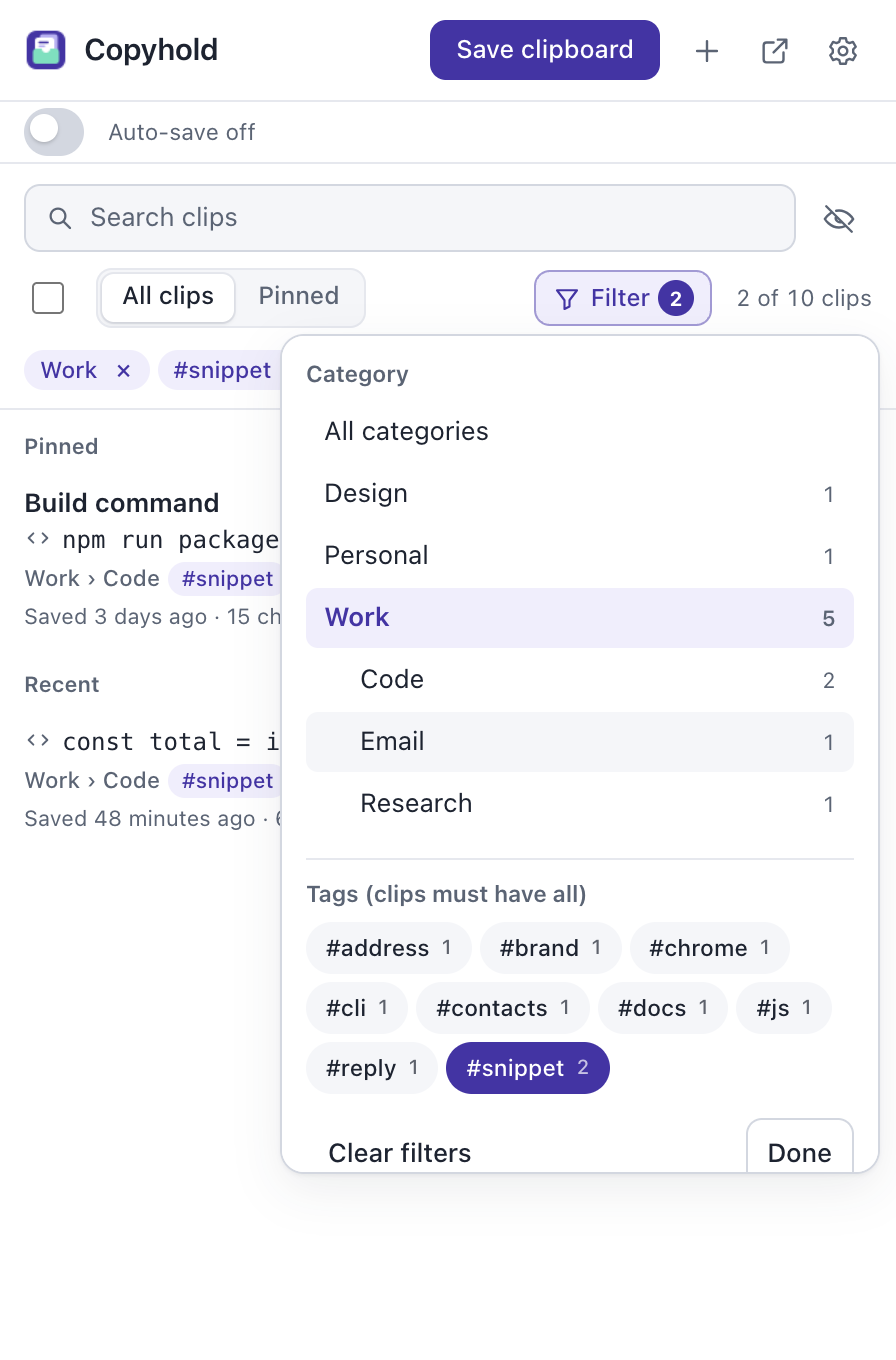
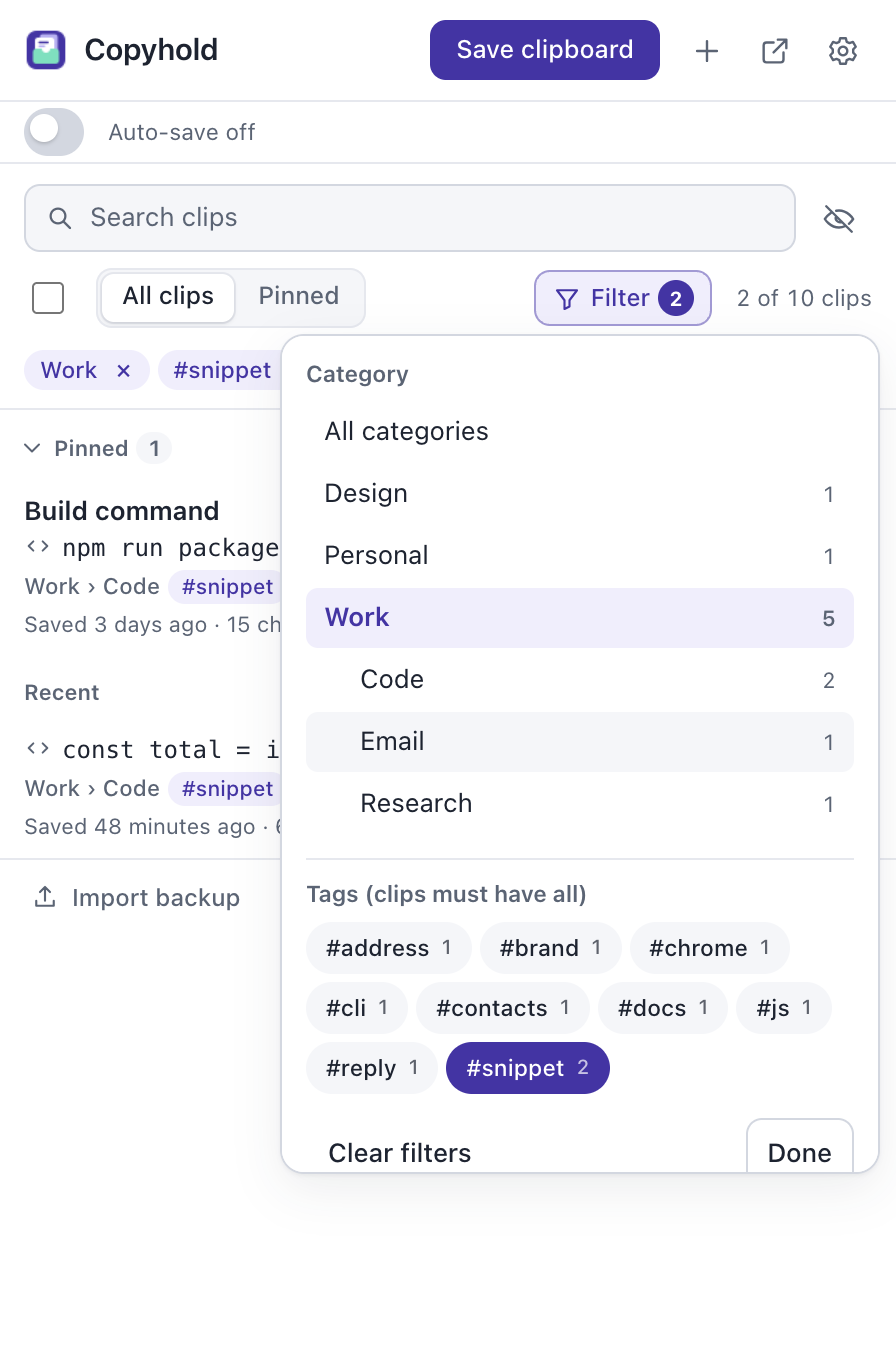
Top-align row buttons, move import and export to the list footer, and fold pinned clips
- Row action buttons align with the first line of each clip instead of
  its vertical center; compact rows stay centered.
- Import backup and Export backup move from Settings to a bar under the
  clip list.
- The Pinned heading folds the group away and shows its count. Folded
  clips leave keyboard navigation and Alt+number shortcuts; the Pinned
  filter still lists them. The choice is saved as a setting.
- Tag chips stay visible on the highlighted row.
- Version 1.2.1, with tests, changelog, README, and screenshots.

diff --git a/src/popup/modules/list.js b/src/popup/modules/list.js
@@ -2,6 +2,7 @@ import { sortEntries } from "../../lib/entries.js";
 import { clipPreview, clipType, displayLength, displayUrl, relativeTime, shortAge } from "../../lib/format.js";
 import { emptyFilter, isFiltering, matchesFilter, matchesTagTerms, matchesText, parseQuery } from "../../lib/organize.js";
 import { sensitiveLabel } from "../../lib/sensitive.js";
+import { updateSettings } from "../../lib/settings.js";
 import * as store from "../../lib/store.js";
 import { copyEntry, deleteEntry, togglePin } from "./actions.js";
 import { byId, icon, iconPaths, run, status, textLine, timeElement } from "./dom.js";
@@ -346,10 +347,14 @@ export function renderList(resetActive = false) {
   const matches = clips.filter((clip) => (!pinnedOnly || clip.pinned) &&
     matchesText(clip, text) && matchesTagTerms(clip, tags) && (!filtering || matchesFilter(clip, state.filter)));
   const hadFocus = clipList.contains(document.activeElement);
+  const pinnedMatches = matches.filter((clip) => clip.pinned).length;
+  // The Pinned filter shows only pinned clips, so folding them away there would empty the list.
+  const collapsed = state.pinnedCollapsed && !pinnedOnly;
+  const listed = collapsed ? matches.filter((clip) => !clip.pinned) : matches;
 
   if (resetActive) renderLimit = renderStep;
-  const shown = matches.slice(0, renderLimit);
-  hiddenMatches = matches.length - shown.length;
+  const shown = listed.slice(0, renderLimit);
+  hiddenMatches = listed.length - shown.length;
   const visibleIds = new Set(shown.map(({ id }) => id));
   state.shownClips = shown;
   for (const id of selectedIds) if (!visibleIds.has(id)) selectedIds.delete(id);
@@ -377,15 +382,19 @@ export function renderList(resetActive = false) {
   });
   for (const [name, group] of Object.entries(groups)) {
     group.replaceChildren(group.querySelector(".group-heading"), ...rows[name]);
-    group.hidden = rows[name].length === 0;
+    group.hidden = name === "pinned" ? pinnedMatches === 0 : rows[name].length === 0;
   }
   byId("pinned-heading").hidden = pinnedOnly;
-  byId("recent-heading").hidden = rows.pinned.length === 0;
+  byId("recent-heading").hidden = pinnedMatches === 0 || pinnedOnly;
+  const toggle = byId("pinned-toggle");
+  toggle.setAttribute("aria-expanded", String(!collapsed));
+  toggle.title = collapsed ? t("expandPinned") : t("collapsePinned");
+  byId("pinned-count").textContent = pinnedMatches.toLocaleString();
   showMore.hidden = hiddenMatches === 0;
   showMore.textContent = t("showMore", Math.min(renderStep, hiddenMatches).toLocaleString(), hiddenMatches.toLocaleString());
   if (hadFocus && !clipList.contains(document.activeElement)) search.focus({ preventScroll: true });
 
-  if (resetActive || !visibleIds.has(state.activeId)) state.activeId = matches[0]?.id;
+  if (resetActive || !visibleIds.has(state.activeId)) state.activeId = listed[0]?.id;
   updateItemStates();
   if (resetActive) clipList.scrollTop = 0;
 
@@ -499,6 +508,17 @@ document.addEventListener("keyup", (event) => {
   if (event.key === "Alt") clipList.classList.remove("show-keys");
 });
 addEventListener("blur", () => clipList.classList.remove("show-keys"));
+
+export function setPinnedCollapsed(collapsed) {
+  state.pinnedCollapsed = collapsed;
+  renderList();
+}
+
+byId("pinned-toggle").addEventListener("mousedown", (event) => event.preventDefault());
+byId("pinned-toggle").addEventListener("click", () => {
+  setPinnedCollapsed(!state.pinnedCollapsed);
+  run(() => updateSettings({ pinnedCollapsed: state.pinnedCollapsed }));
+});
 
 for (const filter of [allClips, pinnedClips]) {
   filter.addEventListener("change", () => renderList(true));

diff --git a/src/popup/popup.css b/src/popup/popup.css
@@ -299,7 +299,8 @@ button:disabled { cursor: default; opacity: .55; }
   display: grid;
   grid-template-columns: auto auto minmax(0, 1fr) auto auto auto auto;
   grid-template-areas: "check age details tags size key actions";
-  align-items: center;
+  /* Buttons line up with the first line of text, so they stay put when a clip wraps or has labels. */
+  align-items: start;
   padding: 8px 8px 8px 12px;
   scroll-margin-block: 32px 4px;
   cursor: pointer;
@@ -366,7 +367,7 @@ button:disabled { cursor: default; opacity: .55; }
 #delete-selected:not(:disabled) { color: var(--danger); border-color: currentColor; }
 #finish-selection { color: var(--accent); }
 .clip-details { min-inline-size: 0; display: grid; gap: 2px; }
-.clip-actions { display: flex; align-items: center; gap: 2px; }
+.clip-actions { display: flex; align-items: center; gap: 2px; margin-block: -6px; }
 .clip-actions button { min-block-size: 30px; min-inline-size: 30px; padding: 3px; border-color: transparent; background: transparent; color: var(--muted); border-radius: 7px; }
 .clip-actions button:hover { background: color-mix(in srgb, var(--text) 8%, transparent); color: var(--text); }
 :is(.clip:hover, .panel:has(#search:focus) .clip.is-active) .copy { color: var(--accent); }
@@ -421,7 +422,8 @@ button:disabled { cursor: default; opacity: .55; }
 .hint { font-size: .9rem; }
 /* One line with an ellipsis, so an icon or the row actions never push the text out of view. */
 :root:not(.full-tab) .clip .preview { display: block; white-space: nowrap; overflow: hidden; text-overflow: ellipsis; }
-.compact .clip { padding-block: 5px; }
+.compact .clip { padding-block: 5px; align-items: center; }
+.compact .clip-actions { margin-block: 0; }
 .compact .clip-details { display: flex; align-items: baseline; gap: 8px; }
 .compact .clip-title { flex: none; max-inline-size: 45%; }
 .compact :is(.clip-title, .preview) { display: block; white-space: nowrap; overflow: hidden; text-overflow: ellipsis; }
@@ -761,3 +763,33 @@ textarea { resize: vertical; }
 .setting-label { font-weight: 600; }
 :root:not(.full-tab) body:has(#manage-dialog[open]) { min-block-size: 520px; }
 :root:not(.full-tab) body:has(#filter-panel:popover-open) { min-block-size: 600px; }
+
+.group-toggle {
+  display: inline-flex;
+  gap: 4px;
+  min-block-size: 22px;
+  margin: -2px 0 0 -6px;
+  padding: 0 6px 0 2px;
+  border-radius: 6px;
+  color: inherit;
+  font: inherit;
+}
+.group-toggle:hover { background: var(--subtle); color: var(--text); }
+.group-toggle .chevron { inline-size: 14px; block-size: 14px; transition: transform .15s; }
+.group-toggle[aria-expanded="false"] .chevron { transform: rotate(-90deg); }
+@media (prefers-reduced-motion: reduce) { .group-toggle .chevron { transition: none; } }
+.group-count { min-inline-size: 18px; padding: 0 5px; border-radius: 999px; background: var(--subtle); font-variant-numeric: tabular-nums; }
+.list-footer {
+  display: flex;
+  flex-wrap: wrap;
+  align-items: center;
+  gap: 2px;
+  padding: 4px 6px;
+  border-block-start: 1px solid var(--line);
+}
+.list-footer button { gap: 6px; min-block-size: 30px; padding: 3px 8px; color: var(--muted); font-size: .86rem; }
+.list-footer button:hover:not(:disabled) { color: var(--text); }
+.list-footer .action-icon { inline-size: 15px; block-size: 15px; }
+.list-footer-hint { margin-inline-start: auto; padding-inline-end: 6px; color: var(--muted); font-size: .78rem; }
+:root:not(.full-tab) .list-footer-hint { display: none; }
+:is(.panel:has(#search:focus), body:has(#clip-menu:popover-open)) .clip.is-active .clip-labels .tag { background: var(--surface); }

diff --git a/src/popup/popup.html b/src/popup/popup.html
@@ -124,12 +124,6 @@
                 <button id="lock-remove" class="secondary" type="button" hidden data-i18n="turnOffLock">Turn off lock</button>
               </div>
             </fieldset>
-            <div class="actions">
-              <button id="import" class="secondary" type="button" aria-describedby="import-hint" data-i18n="importBackup">Import backup</button>
-              <button id="export" class="secondary" type="button" data-i18n="exportBackup">Export backup</button>
-              <input id="file" type="file" accept=".json,application/json" hidden>
-            </div>
-            <p id="import-hint" class="hint"></p>
           </div>
         </details>
       </div>
@@ -215,7 +209,13 @@
       <p id="copy-status" class="sr-only" role="status" aria-atomic="true"></p>
       <div id="entries" class="clips" role="listbox" aria-label="Saved clips" data-i18n-aria-label="savedClips">
         <div id="pinned-group" class="clip-group" role="group" aria-labelledby="pinned-heading" hidden>
-          <div id="pinned-heading" class="group-heading" role="presentation" data-i18n="pinned">Pinned</div>
+          <div id="pinned-heading" class="group-heading" role="presentation">
+            <button id="pinned-toggle" class="group-toggle" type="button" aria-expanded="true" aria-controls="pinned-group">
+              <svg class="action-icon chevron" viewBox="0 0 24 24" aria-hidden="true" focusable="false"><path d="m6 9 6 6 6-6"/></svg>
+              <span data-i18n="pinned">Pinned</span>
+              <span id="pinned-count" class="group-count"></span>
+            </button>
+          </div>
         </div>
         <div id="recent-group" class="clip-group" role="group" aria-labelledby="recent-heading" hidden>
           <div id="recent-heading" class="group-heading" role="presentation" data-i18n="recent">Recent</div>
@@ -227,6 +227,18 @@
         <div id="empty-hints"></div>
         <button id="reset-filters" class="secondary" type="button" hidden data-i18n="showAllClips">Show all clips</button>
       </div>
+      <footer class="list-footer">
+        <button id="import" class="quiet" type="button" aria-describedby="import-hint">
+          <svg class="action-icon" viewBox="0 0 24 24" aria-hidden="true" focusable="false"><path d="M12 15V4m0 0L8 8m4-4 4 4M5 15v4h14v-4"/></svg>
+          <span data-i18n="importBackup">Import backup</span>
+        </button>
+        <button id="export" class="quiet" type="button">
+          <svg class="action-icon" viewBox="0 0 24 24" aria-hidden="true" focusable="false"><path d="M12 4v11m0 0-4-4m4 4 4-4M5 15v4h14v-4"/></svg>
+          <span data-i18n="exportBackup">Export backup</span>
+        </button>
+        <input id="file" type="file" accept=".json,application/json" hidden>
+        <span id="import-hint" class="list-footer-hint"></span>
+      </footer>
     </section>
   </main>
   <div id="undo-bar" class="undo-bar" hidden>

diff --git a/e2e/extension.e2e.js b/e2e/extension.e2e.js
@@ -244,6 +244,41 @@ test("deleting a clip can be undone", async () => {
   assert.equal((await storedClips()).length, before);
 });
 
+test("the pinned group collapses, stays collapsed, and leaves keyboard navigation", async () => {
+  await page.evaluate(() => {
+    const row = [...document.querySelectorAll("#recent-group .clip")].find((item) => item.textContent.includes("first clip"));
+    row.querySelector(".pin").click();
+  });
+  await page.waitForFunction(() => document.querySelectorAll("#pinned-group .clip").length === 1);
+  assert.equal(await text("#pinned-count"), "1");
+  await page.click("#pinned-toggle");
+  await page.waitForFunction(() => document.querySelectorAll("#pinned-group .clip").length === 0);
+  assert.equal(await page.$eval("#pinned-toggle", (toggle) => toggle.getAttribute("aria-expanded")), "false");
+  assert.equal(await page.$eval("#pinned-group", (group) => group.hidden), false);
+  // The first shown clip is now the first recent one, for arrows, Enter, and Alt+1.
+  const firstShown = await page.$eval(".clip", (item) => item.closest("#recent-group") !== null);
+  assert.equal(firstShown, true);
+
+  await page.waitForFunction(async () =>
+    (await (await import("/lib/settings.js")).getSettings()).pinnedCollapsed === true);
+  await openPopup();
+  await page.waitForFunction(() => document.querySelector("#pinned-toggle").getAttribute("aria-expanded") === "false");
+  assert.equal(await page.$$eval("#pinned-group .clip", (rows) => rows.length), 0);
+  // The Pinned filter still lists pinned clips.
+  await page.click("#pinned-clips");
+  await page.waitForFunction(() => document.querySelectorAll("#pinned-group .clip").length === 1);
+  await page.click("#all-clips");
+  await page.click("#pinned-toggle");
+  await page.waitForFunction(() => document.querySelectorAll("#pinned-group .clip").length === 1);
+});
+
+test("import and export are in the footer, outside Settings", async () => {
+  assert.equal(await page.$eval("#settings", (settings) => settings.open), false);
+  for (const id of ["#import", "#export"]) {
+    assert.equal(await page.$eval(id, (button) => button.closest(".list-footer") !== null && button.checkVisibility()), true);
+  }
+});
+
 test("automatic saving captures copied text with the popup closed", async () => {
   await page.click("#capture-switch");
   await page.waitForFunction(() => document.querySelector("#capture-switch").getAttribute("aria-checked") === "true");

diff --git a/src/popup/modules/settings-panel.js b/src/popup/modules/settings-panel.js
@@ -4,7 +4,7 @@ import {
 import * as store from "../../lib/store.js";
 import { byId, iconPaths, run, status } from "./dom.js";
 import { confirmAction } from "./editor.js";
-import { clipList, refresh, renderList } from "./list.js";
+import { clipList, refresh, renderList, setPinnedCollapsed } from "./list.js";
 import { state } from "./state.js";
 import { t, tn } from "../../lib/i18n.js";
 
@@ -81,6 +81,7 @@ run(async () => {
   const saved = await getSettings();
   applyDensity(saved.density);
   if (saved.hidePreviews) applyHidePreviews(true);
+  if (saved.pinnedCollapsed) setPinnedCollapsed(true);
   for (const [input, key] of [[retentionDays, "retentionDays"], [historyLimit, "historyLimit"], [sensitiveClips, "sensitiveClips"]]) {
     input.value = String(saved[key]);
     input.disabled = false;
@@ -98,6 +99,7 @@ onSettingsChange((changes) => {
   if ("captureImages" in changes) captureImages.checked = changes.captureImages;
   if ("closeAfterCopy" in changes) closeAfterCopyInput.checked = state.closeAfterCopy = changes.closeAfterCopy;
   if ("density" in changes) applyDensity(changes.density);
+  if ("pinnedCollapsed" in changes && changes.pinnedCollapsed !== state.pinnedCollapsed) setPinnedCollapsed(changes.pinnedCollapsed);
   if ("hidePreviews" in changes && changes.hidePreviews !== state.hidePreviews) applyHidePreviews(changes.hidePreviews);
   if ("historyLimit" in changes) historyLimit.value = String(savedHistoryLimit = changes.historyLimit);
 });

diff --git a/site/index.html b/site/index.html
@@ -39,7 +39,7 @@
             </a>
             <a class="button secondary" href="#install">How to install</a>
           </div>
-          <p class="note">Version 1.2.0 · <a href="https://github.com/nevin/copyhold/releases/latest">What's new</a>: categories and tags, passphrase lock, image clips, and secret detection. Coming soon to the Chrome Web Store; until then, install it from the download in under a minute.</p>
+          <p class="note">Version 1.2.1 · <a href="https://github.com/nevin/copyhold/releases/latest">What's new</a>: categories and tags, passphrase lock, image clips, and secret detection. Coming soon to the Chrome Web Store; until then, install it from the download in under a minute.</p>
         </div>
         <div class="frame">
           <img src="screenshots/popup-list.png" width="896" height="1200" alt="The Copyhold popup listing pinned and recent clips, with a search field and a highlighted link clip.">

diff --git a/src/popup/modules/backup.js b/src/popup/modules/backup.js
@@ -4,14 +4,12 @@ import * as store from "../../lib/store.js";
 import { byId, fullTab, run, status } from "./dom.js";
 import { confirmAction } from "./editor.js";
 import { loaders, refresh } from "./list.js";
-import { settings } from "./settings-panel.js";
 import { t, tn } from "../../lib/i18n.js";
 
 const file = byId("file");
 
-byId("import-hint").textContent = fullTab
-  ? t("importHintTab")
-  : t("importHintPopup");
+byId("import-hint").textContent = fullTab ? t("importHintTab") : t("importHintPopup");
+if (!fullTab) byId("import").title = t("importHintPopup");
 
 byId("import").addEventListener("click", () => {
   if (fullTab) file.click();
@@ -65,7 +63,6 @@ byId("export").addEventListener("click", () => run(async () => {
 }));
 
 if (new URLSearchParams(location.search).has("import")) {
-  settings.open = true;
   status(t("importPrompt"));
   byId("import").focus();
 }

diff --git a/src/popup/modules/state.js b/src/popup/modules/state.js
@@ -15,6 +15,8 @@ export const state = {
   selectedIds: new Set(),
   // Shown in place of every visible clip's text, for screen sharing; rows rebuild when it changes.
   hidePreviews: false,
+  // The pinned group is folded away; its clips leave the list and keyboard navigation until it opens.
+  pinnedCollapsed: false,
   autoCaptureEnabled: false,
   closeAfterCopy: true,
   openShortcut: "",

diff --git a/src/lib/settings.js b/src/lib/settings.js
@@ -11,6 +11,7 @@ export const defaultSettings = {
   historyLimit: 0,
   density: "comfortable",
   hidePreviews: false,
+  pinnedCollapsed: false,
   // What automatic capture does with text that looks like a password, key, or card number: mask, skip, or keep.
   sensitiveClips: "mask",
   captureImages: false,

diff --git a/test/store.test.js b/test/store.test.js
@@ -36,6 +36,7 @@ test("upgrading keeps settings and capture state from the old clipboard store", 
     historyLimit: 0,
     density: "comfortable",
     hidePreviews: false,
+    pinnedCollapsed: false,
     sensitiveClips: "mask",
     captureImages: false,
     lockAfterMinutes: 15,

diff --git a/README.md b/README.md
@@ -77,6 +77,7 @@ Pushes to `main` run the checks and browser tests in GitHub Actions, and changes
 - Edits in the clip editor save as you type; **Done**, **Escape**, or **Cmd+Enter** (**Ctrl+Enter** elsewhere) closes it.
 - Select **Save clipboard** to save the current clipboard text, or the image on it when there's no text. If the same content is already saved, Copyhold moves that clip to the top instead of saving it again.
 - Press **Alt+Shift+S** to save the clipboard without opening Copyhold, or right-click selected text on a page and choose **Save selection to Copyhold**. A check mark on the toolbar icon confirms the save. Change the shortcuts at `chrome://extensions/shortcuts`. Use **New clip** to type or paste text with an optional title, description, category, subcategory, and tags.
+- Select the **Pinned** heading to fold the pinned clips away, and again to show them. Folded clips leave the list and keyboard navigation; the **Pinned** filter still shows them. Copyhold remembers the choice.
 - The list shows 200 clips at a time; select **Show more** or keep pressing **Down** to see more.
 - Clips show what kind of text they contain: links show their address without `https://`, code and commands use a monospace font, and colors show a swatch. Times are relative, such as "2 hours ago"; point at a time to see the exact date.
 
@@ -118,7 +119,7 @@ The switch in the bar under the header turns automatic saving on or off. **Pause
 
 ### Backups
 
-**Export** downloads a JSON backup, with images as data URLs. **Import** appends the backup entries with fresh IDs, preserving duplicate content, display preferences, pins, and timestamps. Backups exported under the extension's earlier name, Clipfile, import too. Import opens the full-tab view to keep the file picker open. In the full-tab view you can also drop a backup file onto the page.
+**Import backup** and **Export backup** are in the bar under the clip list. **Export** downloads a JSON backup, with images as data URLs. **Import** appends the backup entries with fresh IDs, preserving duplicate content, display preferences, pins, and timestamps. Backups exported under the extension's earlier name, Clipfile, import too. Import opens the full-tab view to keep the file picker open. In the full-tab view you can also drop a backup file onto the page.
 
 Copyhold stores entries locally and makes no network requests. See [PRIVACY.md](PRIVACY.md) for the full privacy policy. Masking and hiding affect only the preview. The original text remains available to edit and copy, and exports contain it unencrypted.
 

diff --git a/CHANGELOG.md b/CHANGELOG.md
@@ -1,5 +1,11 @@
 # Changelog
 
+## 1.2.1
+
+- **Import and Export are easier to reach.** They're now in a bar under the clip list instead of inside Settings.
+- **Fold away pinned clips.** Select the Pinned heading to collapse or expand the group; Copyhold remembers your choice. The heading shows how many pinned clips there are.
+- Row buttons such as Pin, Edit, and Delete line up with the first line of each clip, so they stay in place when a clip has a title, labels, or several lines.
+
 ## 1.2.0
 
 To install, download **copyhold-chromium.zip**, unzip it, open `chrome://extensions`, turn on **Developer mode**, select **Load unpacked**, and choose the `copyhold` folder. To update, replace the folder's files and select the reload button on Copyhold's card. Your clips are kept.
